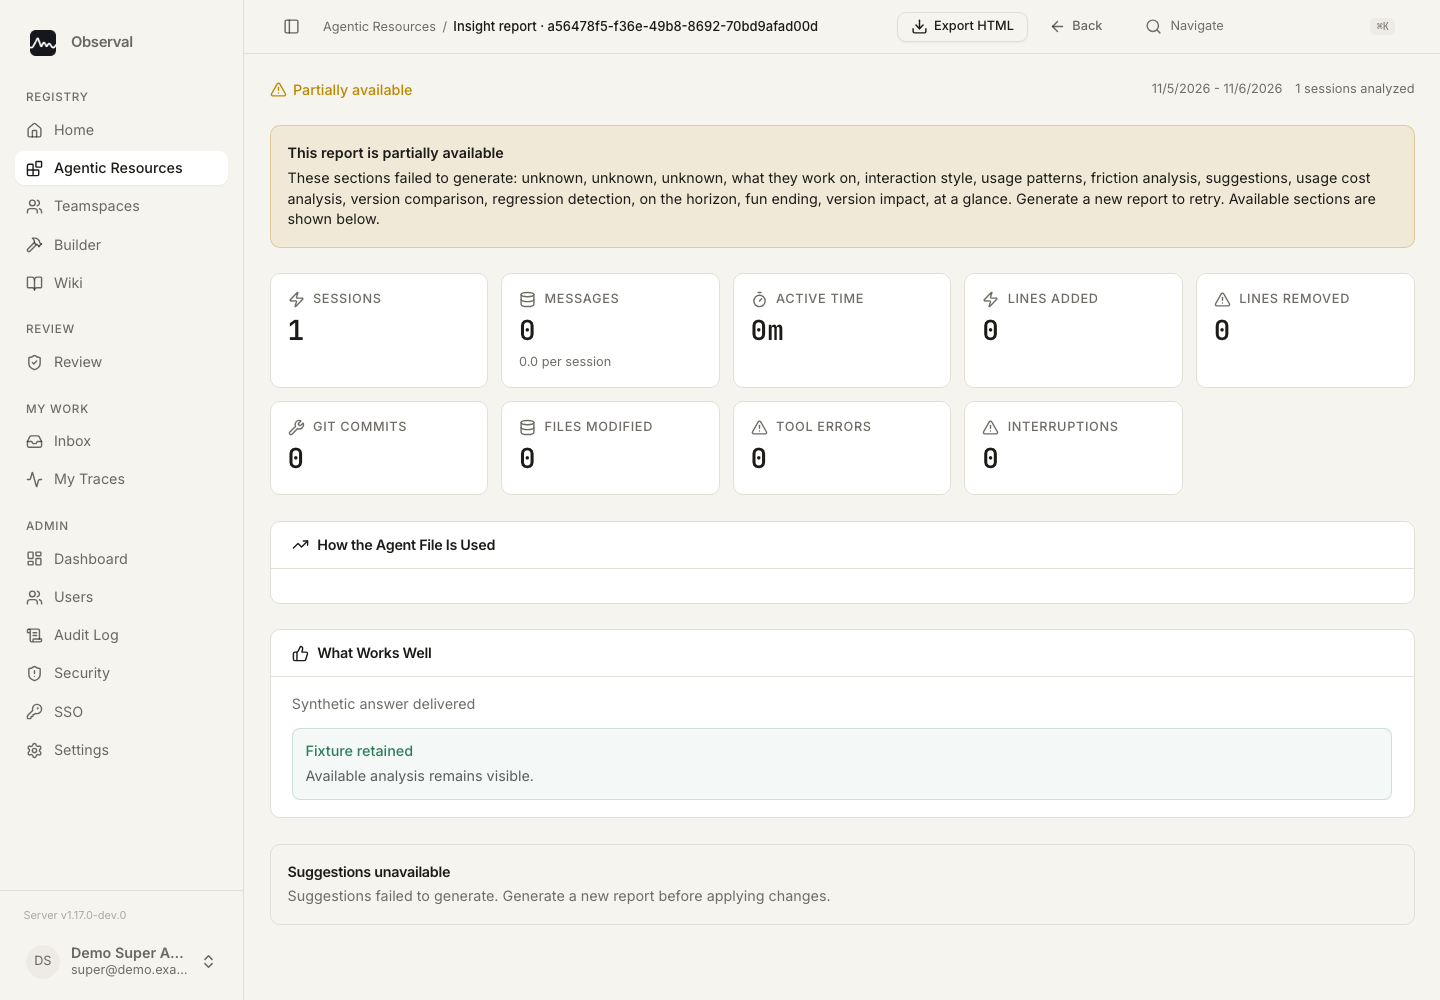
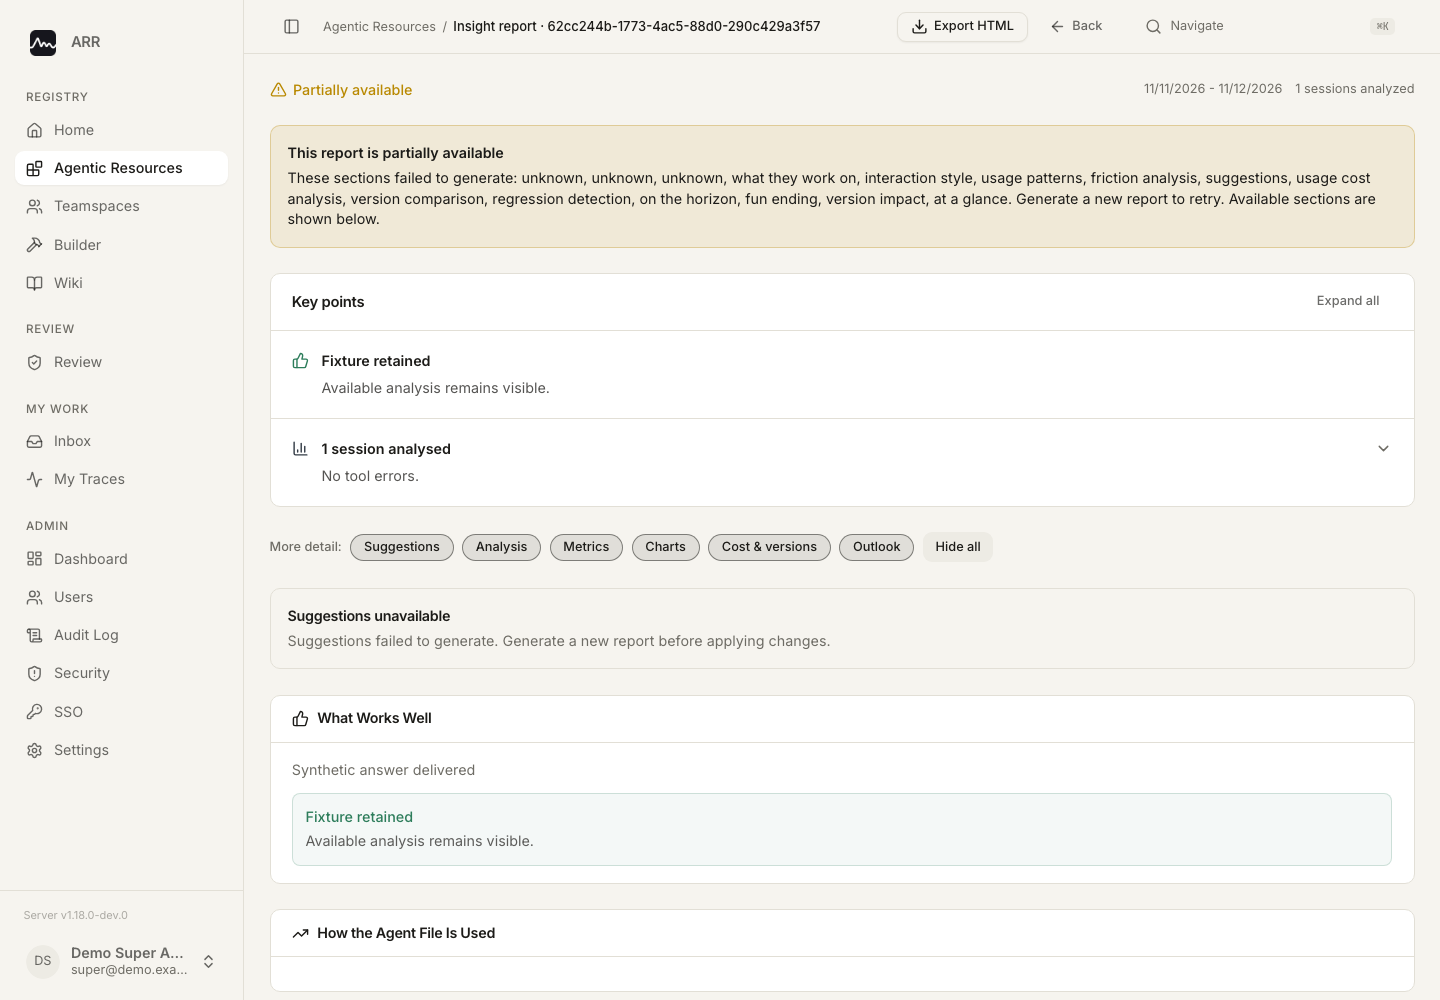
fix(insights): preserve summarized UI on rebase

diff --git a/web/src/pages/admin/insights/detail.tsx b/web/src/pages/admin/insights/detail.tsx
@@ -2078,6 +2078,8 @@ export default function InsightReportPage() {
 	const router = useRouter();
 	const { data: report, isLoading, isError } = useInsightReport(agentId, reportId);
 	const selection = useSuggestionSelection(report);
+	const suggestionsUnavailable = Array.isArray(report?.narrative?.section_errors)
+        && report.narrative.section_errors.some(error => error?.section === "suggestions");
 	const sections = useReportSections();
 
 	return (
@@ -2090,7 +2092,7 @@ export default function InsightReportPage() {
 				]}
 				actionButtonsRight={
 					<div className="flex shrink-0 items-center gap-2">
-						<ApplySuggestionsControl report={report} selection={selection} />
+						{!suggestionsUnavailable && <ApplySuggestionsControl report={report} selection={selection} />}
 						{/* icons only below sm, so Apply, Export, Back and search all fit on a phone */}
 						{report?.status === "completed" && (
 							<Button

diff --git a/tests/e2e/insights-section-failures.spec.ts b/tests/e2e/insights-section-failures.spec.ts
@@ -40,6 +40,10 @@ test("partial sections are visible and failed suggestions cannot be applied", as
   });
   await page.goto(`/agents/${report.agent_id}/insights/${reportId}`);
   await expect(page.getByText("This report is partially available", { exact: true })).toBeVisible({ timeout: 15000 });
+  const deferContact = page.getByRole("button", { name: "Not now", exact: true });
+  if (await deferContact.isVisible()) await deferContact.click();
+  // Preserve main's collapsed key-points UI and explicitly open its details.
+  await page.getByRole("group", { name: "Report sections" }).getByRole("button", { name: "Show all", exact: true }).click();
   for (const viewport of [{ width: 1440, height: 1000 }, { width: 390, height: 844 }]) {
     await page.setViewportSize(viewport);
     await expect(page.getByText("This report is partially available", { exact: true })).toBeVisible();
